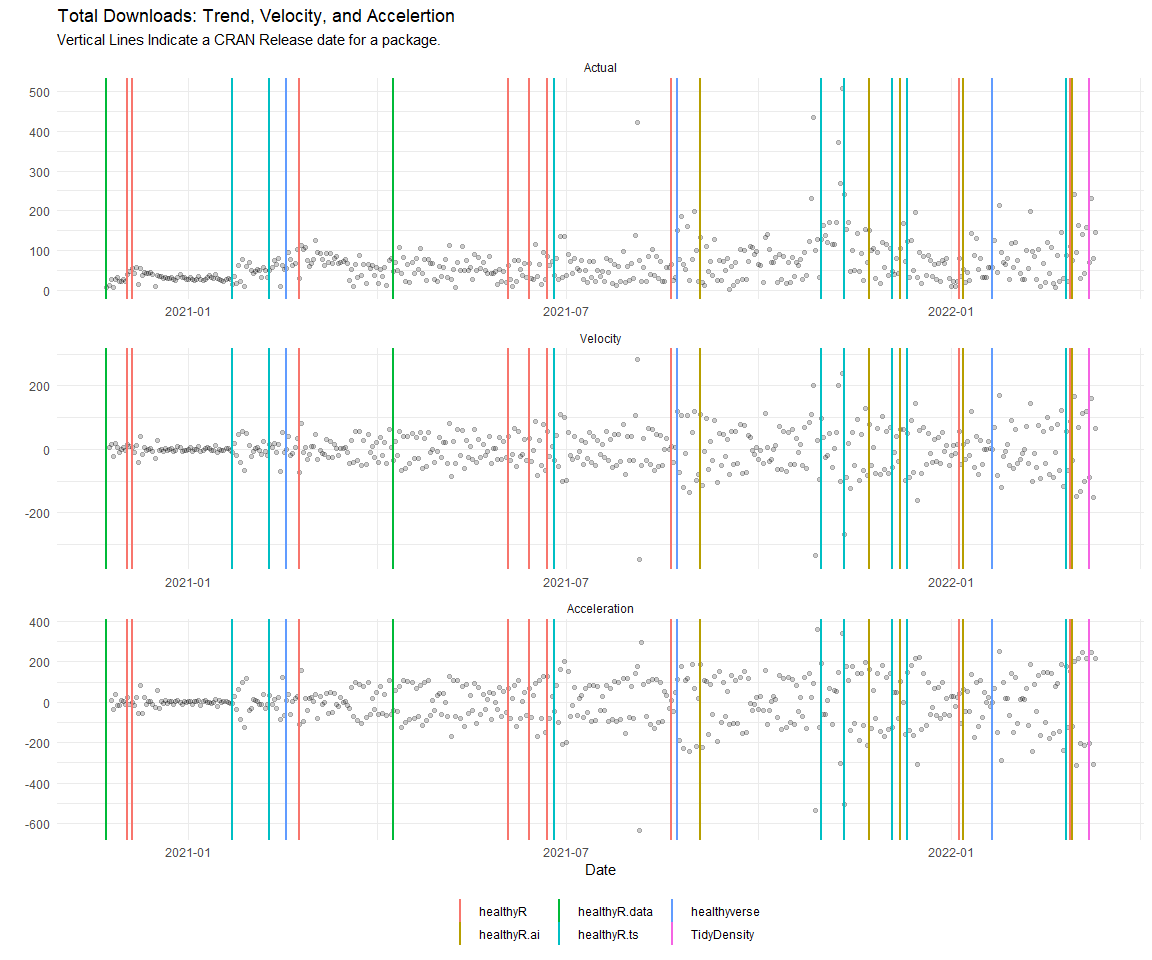
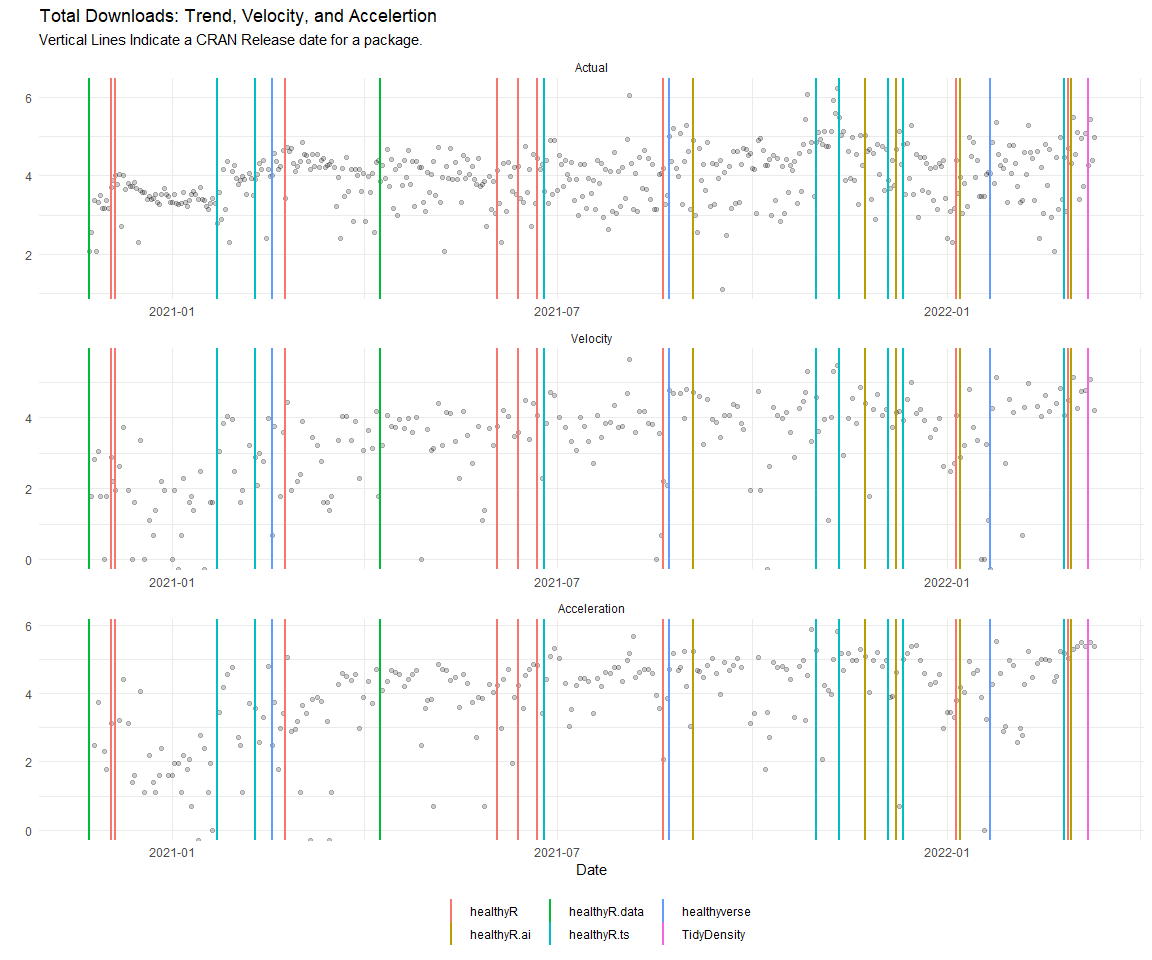
updates

diff --git a/README.md b/README.md
@@ -215,7 +215,7 @@ dl_tbl %>%
   pivot_longer(-date) %>%
   mutate(name = str_to_title(name)) %>%
   mutate(name = as_factor(name)) %>%
-  ggplot(aes(x = date, y = value, group = name)) +
+  ggplot(aes(x = date, y = log1p(value), group = name)) +
   geom_point(alpha = .2) +
   geom_vline(
     data = pkg_tbl
